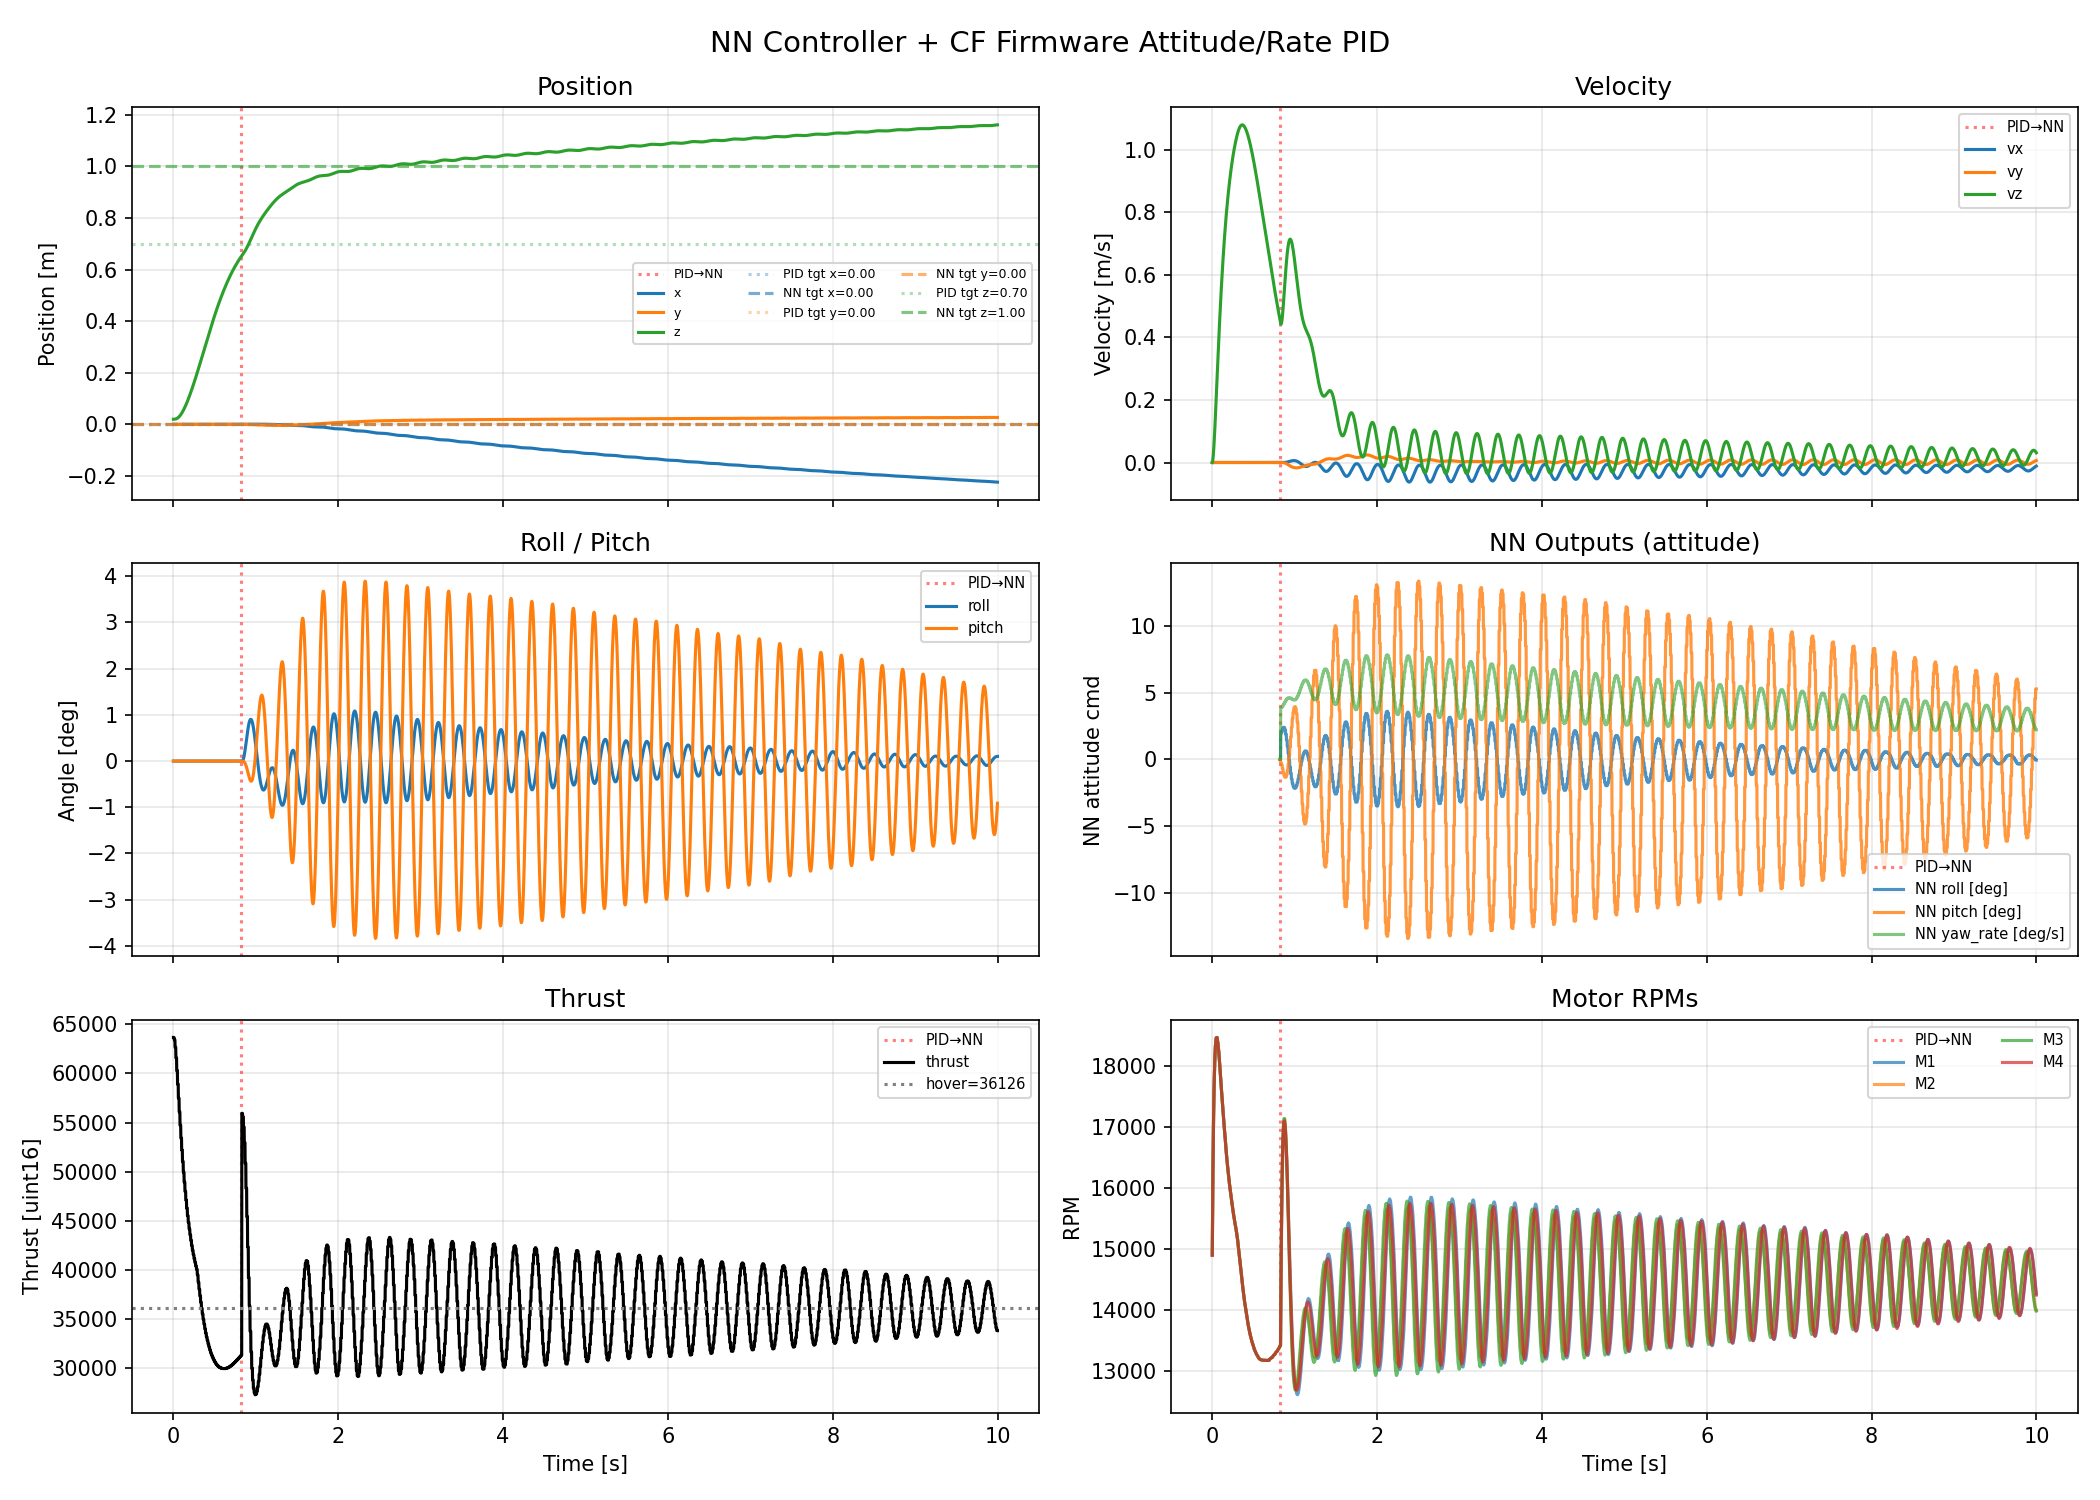
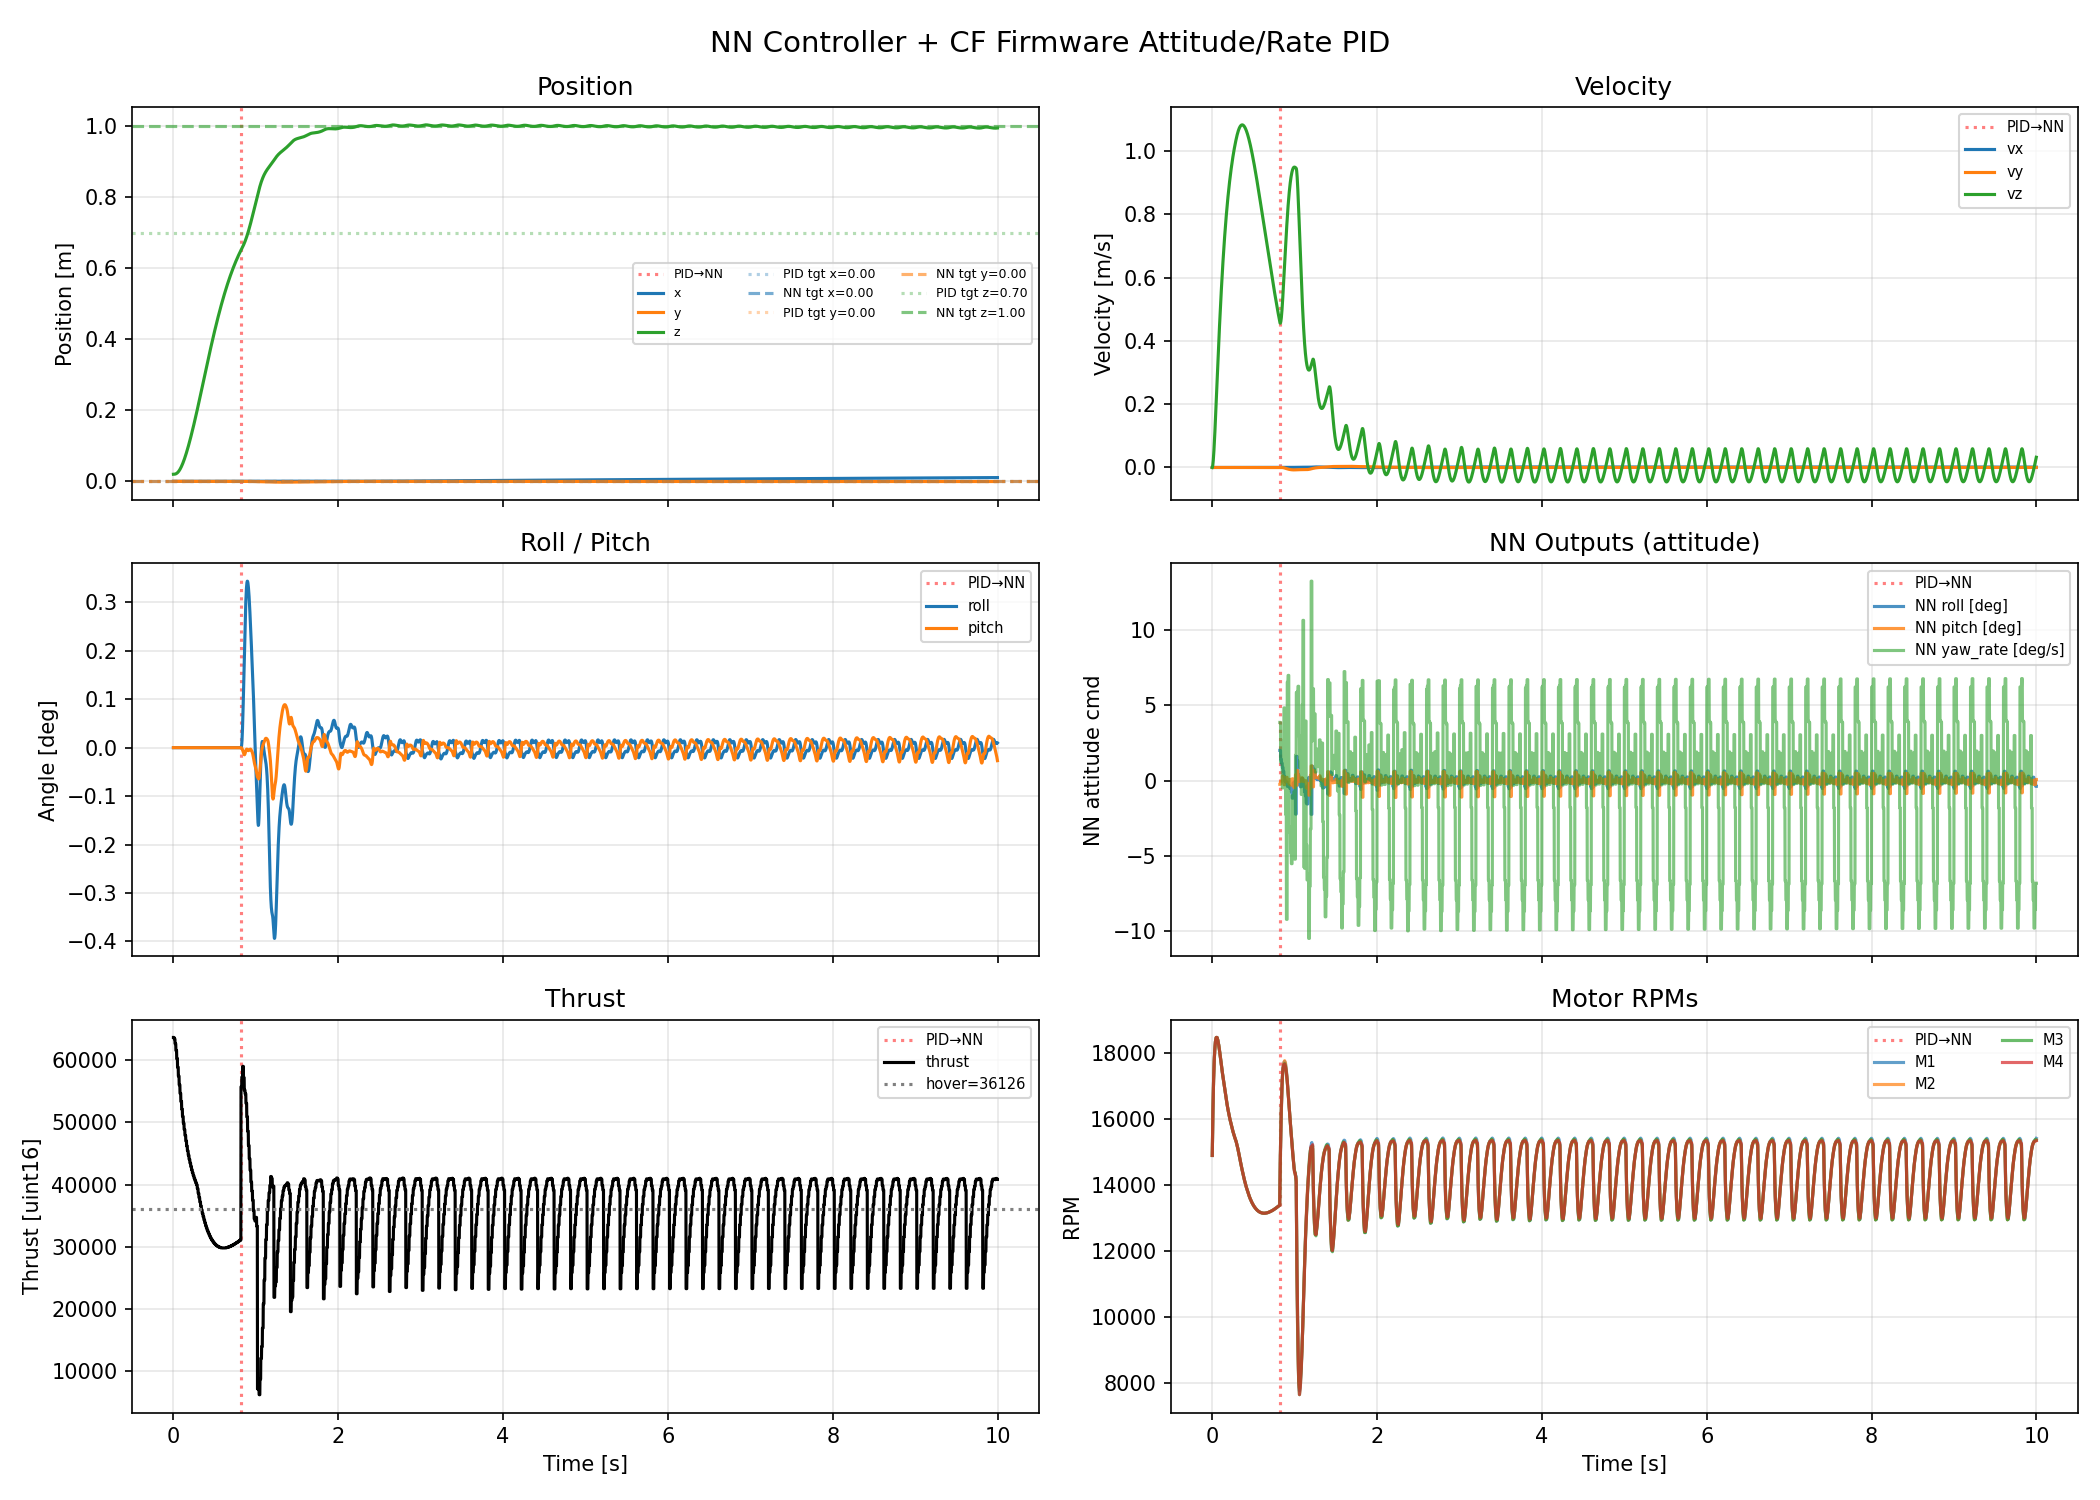
put back 8 bit truncature

diff --git a/training_regulation_simu_and_real/fly_nn_cf_pid.py b/training_regulation_simu_and_real/fly_nn_cf_pid.py
@@ -170,17 +170,18 @@ def drone_state_to_nn_state(ds: dict) -> np.ndarray:
     ], dtype=np.float32)
 
 
-def query_nn(policy: ConcurrentPolicyMLP, state_12: np.ndarray,
-             target_pos: np.ndarray, device: str = "cpu"):
-    """Query the NN and return (thrust_u16, roll_deg, pitch_deg, yaw_rate_deg/s).
+def query_nn_chunk(policy: ConcurrentPolicyMLP, state_12: np.ndarray,
+                   target_pos: np.ndarray, device: str = "cpu") -> np.ndarray:
+    """Query the NN and return all T actions for the chunk.
 
-    Positions in state_12 are shifted so the target becomes the origin
-    for the NN (which was trained to regulate to the origin).
-    Only the first action (t=0) of the T-step chunk is used (MPC style).
+    Matches the training rollout exactly: the NN is called once at the start
+    of each T-step chunk and all T actions are used sequentially.
+
+    Returns: (T, 4) array of [thrust_u16, roll_deg, pitch_deg, yaw_rate_deg/s]
     """
     T = policy.T
 
-    # Shift positions so target is at origin
+    # Shift positions so target becomes the origin (training convention)
     state_shifted = state_12.copy()
     state_shifted[0] -= target_pos[0]   # x
     state_shifted[2] -= target_pos[1]   # y
@@ -189,15 +190,14 @@ def query_nn(policy: ConcurrentPolicyMLP, state_12: np.ndarray,
     s = torch.tensor(state_shifted, dtype=torch.float32,
                      device=device).unsqueeze(0)   # (1, 12)
 
-    # Relative targets: target(=0) - current_shifted = -current_shifted
-    current_pos = s[:, [0, 2, 4]]                  # (1, 3)
+    # Relative targets: all T targets are the same for regulation
+    current_pos = s[:, [0, 2, 4]]                      # (1, 3)
     rel = (-current_pos).unsqueeze(1).expand(1, T, 3)  # (1, T, 3)
 
     with torch.no_grad():
         actions = policy(s, rel)   # (1, T, 4)
 
-    a = actions[0, 0].cpu().numpy()
-    return float(a[0]), float(a[1]), float(a[2]), float(a[3])
+    return actions[0].cpu().numpy()   # (T, 4)
 
 
 # ===================================================================
@@ -282,6 +282,10 @@ def run_sim_nn(ckpt_path: str, takeoff_pos=(0, 0, 0.5), target_pos=(0, 0, 1),
     yaw_setpoint = 0.0
     in_pid_phase = True   # starts in PID phase; flips when close to pid_target
 
+    T = policy.T
+    nn_chunk_buf = None   # (T, 4) buffer of pre-planned NN actions
+    nn_step_in_chunk = T  # starts at T to force a query on the first NN step
+
     for i in range(n_steps):
         obs, _, _, _, _ = env.step(action)
 
@@ -294,6 +298,7 @@ def run_sim_nn(ckpt_path: str, takeoff_pos=(0, 0, 0.5), target_pos=(0, 0, 1),
             hard_cap_reached = (i >= int(CTRL_FREQ * PHASE_SWITCH_MAX_SEC))
             if dist_to_pid_target <= PHASE_SWITCH_RADIUS or hard_cap_reached:
                 in_pid_phase = False
+                nn_step_in_chunk = T  # force re-query on first NN step
                 reason = "proximity" if dist_to_pid_target <= PHASE_SWITCH_RADIUS else "timeout"
                 print(f"[SIM] NN takeover at t={i / CTRL_FREQ:.1f}s ({reason})  "
                       f"dist={dist_to_pid_target:.3f}m  "
@@ -307,10 +312,17 @@ def run_sim_nn(ckpt_path: str, takeoff_pos=(0, 0, 0.5), target_pos=(0, 0, 1),
                     pid_target, tuple(pos), tuple(vel), rpy_deg[2])
                 yaw_rate_cmd = 0.0
             else:
-                # Phase 2: NN controller → nn_target
-                nn_state = obs_to_nn_state(obs[0])
+                # Phase 2: NN controller — chunk-based, identical to training.
+                # Re-query only at the start of each new T-step chunk so all T
+                # actions are executed in sequence (same as rollout() in training).
+                if nn_step_in_chunk >= T:
+                    nn_state = obs_to_nn_state(obs[0])
+                    nn_chunk_buf = query_nn_chunk(policy, nn_state, nn_target, device)
+                    nn_step_in_chunk = 0
+                a = nn_chunk_buf[nn_step_in_chunk]
                 thrust_cmd, roll_des, pitch_des, yaw_rate_cmd = \
-                    query_nn(policy, nn_state, nn_target, device)
+                    float(a[0]), float(a[1]), float(a[2]), float(a[3])
+                nn_step_in_chunk += 1
 
         # ---- Yaw setpoint accumulation (500 Hz) ---------------------
         yaw_setpoint = cap_angle(
@@ -340,7 +352,7 @@ def run_sim_nn(ckpt_path: str, takeoff_pos=(0, 0, 0.5), target_pos=(0, 0, 1),
 
         # ---- Power distribution → RPMs ------------------------------
         motor_pwm = power.distribute(thrust_cmd, roll_cmd, pitch_cmd, yaw_cmd)
-        rpms = pwm_to_rpm(motor_pwm, KF)
+        rpms = pwm_to_rpm(motor_pwm, KF, truncate_8bit=True)
         rpms = motor_filter.apply(rpms)
         action[0, :] = rpms
 

diff --git a/training_regulation_simu_and_real/train_nn_cf_pid.py b/training_regulation_simu_and_real/train_nn_cf_pid.py
@@ -248,11 +248,34 @@ def _get_pid_gains(dev):
         }
     return _pid_cache[dev]
 
+_MOTORS_PWM_BITS = 8
+_MOTORS_PWM_SHIFT = 16 - _MOTORS_PWM_BITS  # 8
+
+
 def pwm_to_rpm_torch(motor_pwm: torch.Tensor) -> torch.Tensor:
-    """Convertit les PWM (0-65535) en RPM avec sécurité pour le gradient."""
-    thrust = (motor_pwm / UINT16_MAX) * CF2_THRUST_MAX_PER_MOTOR
-    # SÉCURITÉ CRITIQUE : Empêche un gradient infini si thrust = 0
-    thrust = torch.clamp(thrust, min=1e-3) 
+    """Convertit les PWM (0-65535) en RPM avec troncature 8-bit hardware.
+
+    Réplique la chaîne réelle CF2.1+ :
+      1. Troncature timer 8-bit : arrondi vers le bas au multiple de 256 le plus proche
+         [FW] motors.c:115  motorsConv16ToBits
+      2. Mapping linéaire uint16 → poussée [N]
+         [FW] motors.c:165  motorsCompensateBatteryVoltage
+      3. thrust = KF × rpm²  →  rpm = sqrt(thrust / KF)
+
+    La troncature n'est pas différentiable; on utilise un straight-through
+    estimator : forward = valeur tronquée, backward = gradient identité.
+    Cela conserve la fidélité physique tout en permettant la rétropropagation.
+    """
+    # Straight-through truncation: floor to nearest multiple of 256
+    # Equivalent to: int(pwm) >> 8 << 8
+    scale = float(1 << _MOTORS_PWM_SHIFT)  # 256.0
+    pwm_trunc = motor_pwm - (motor_pwm % scale)  # floor to multiple of 256
+    # Straight-through: use truncated value in forward, pass gradient through
+    pwm_trunc = motor_pwm + (pwm_trunc - motor_pwm).detach()
+
+    thrust = (pwm_trunc / UINT16_MAX) * CF2_THRUST_MAX_PER_MOTOR
+    # Empêche un gradient infini si thrust = 0
+    thrust = torch.clamp(thrust, min=1e-3)
     return torch.sqrt(thrust / KF)
 
 def one_pid_step(thrust_u16, roll_des_deg, pitch_des_deg, yaw_rate_deg,
